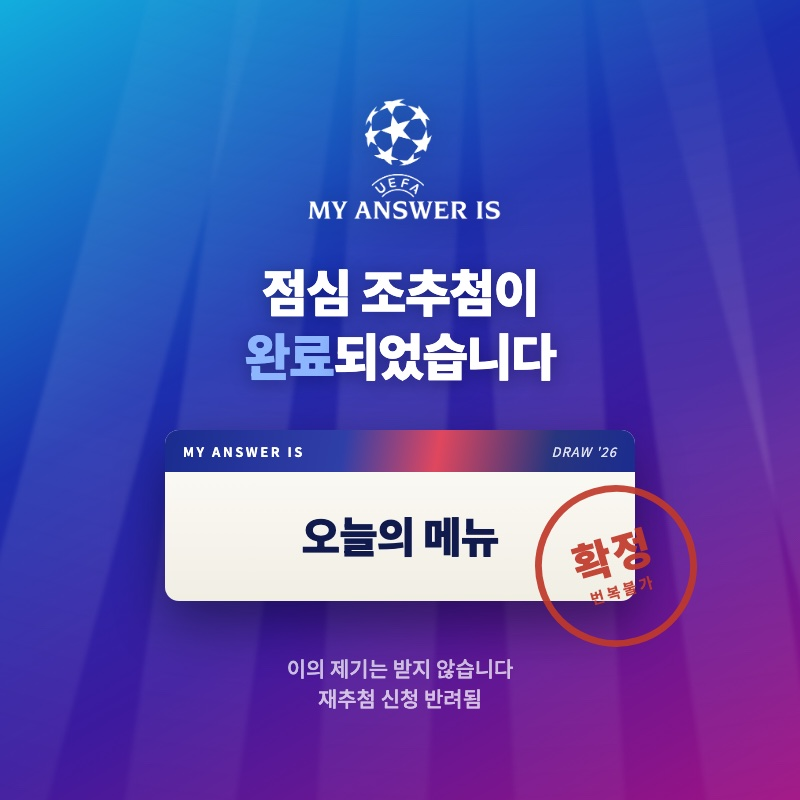
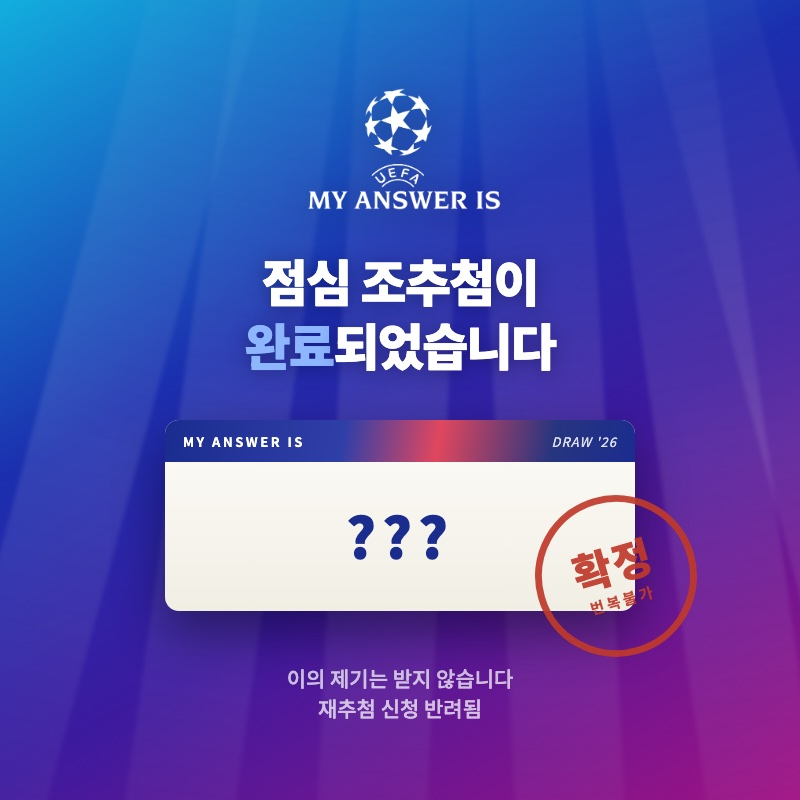
Fall back to recent draws when no menu leads
With a handful of draws everyone gets something different, so the
ranking branch never fired and the line read just "오늘 4명이 뽑았습니다".
It now shows what the last few people got instead — the count alone was
a dead end.

The share card's slip reads ??? rather than "오늘의 메뉴", so the card
withholds the result the way the draw does.

diff --git a/lunch-stats.js b/lunch-stats.js
@@ -27,15 +27,25 @@ function rpc(name) {
   }).then((r) => (r.ok ? r.json() : null)).catch(() => null);
 }
 
-// "오늘 47명 중 12명이 같은 운명 · 1위 김치찌개" 한 줄을 만든다.
+// 결과 아래 한 줄. 표가 몰리면 순위를, 다 갈리면 최근 뽑힌 것들을 보여준다.
 async function todayLine(menu) {
-  const [rank, total] = await Promise.all([rpc('today_ranking'), rpc('today_total')]);
-  if (!Array.isArray(rank) || !rank.length || !total) return '';
-  const top = rank[0];
-  const mine = rank.find((r) => r.menu === menu);
+  const [rank, total, recent] = await Promise.all([
+    rpc('today_ranking'), rpc('today_total'), rpc('today_recent'),
+  ]);
+  if (!total) return '';
   const parts = ['오늘 ' + total + '명이 뽑았습니다'];
+  const top = Array.isArray(rank) && rank.length ? rank[0] : null;
+  const mine = Array.isArray(rank) ? rank.find((r) => r.menu === menu) : null;
+
   if (mine && mine.cnt > 1) parts.push('그중 ' + mine.cnt + '명이 같은 운명');
-  // 표본이 적으면 1위가 곧 방금 뽑은 메뉴라 의미가 없다.
-  if (top.cnt > 1) parts.push('1위 ' + top.menu + ' ' + top.flag + ' ' + top.cnt + '표');
+
+  if (top && top.cnt > 1) {
+    // 표가 몰린 메뉴가 있을 때만 순위가 의미를 갖는다.
+    parts.push('1위 ' + top.menu + ' ' + top.flag + ' ' + top.cnt + '표');
+  } else if (Array.isArray(recent) && recent.length > 1) {
+    // 다 제각각이면 순위 대신 남들이 뭘 받았는지 보여준다.
+    const others = recent.filter((r) => r.menu !== menu).slice(0, 3);
+    if (others.length) parts.push('방금 전 ' + others.map((r) => r.menu).join(' · '));
+  }
   return parts.join(' · ');
 }
